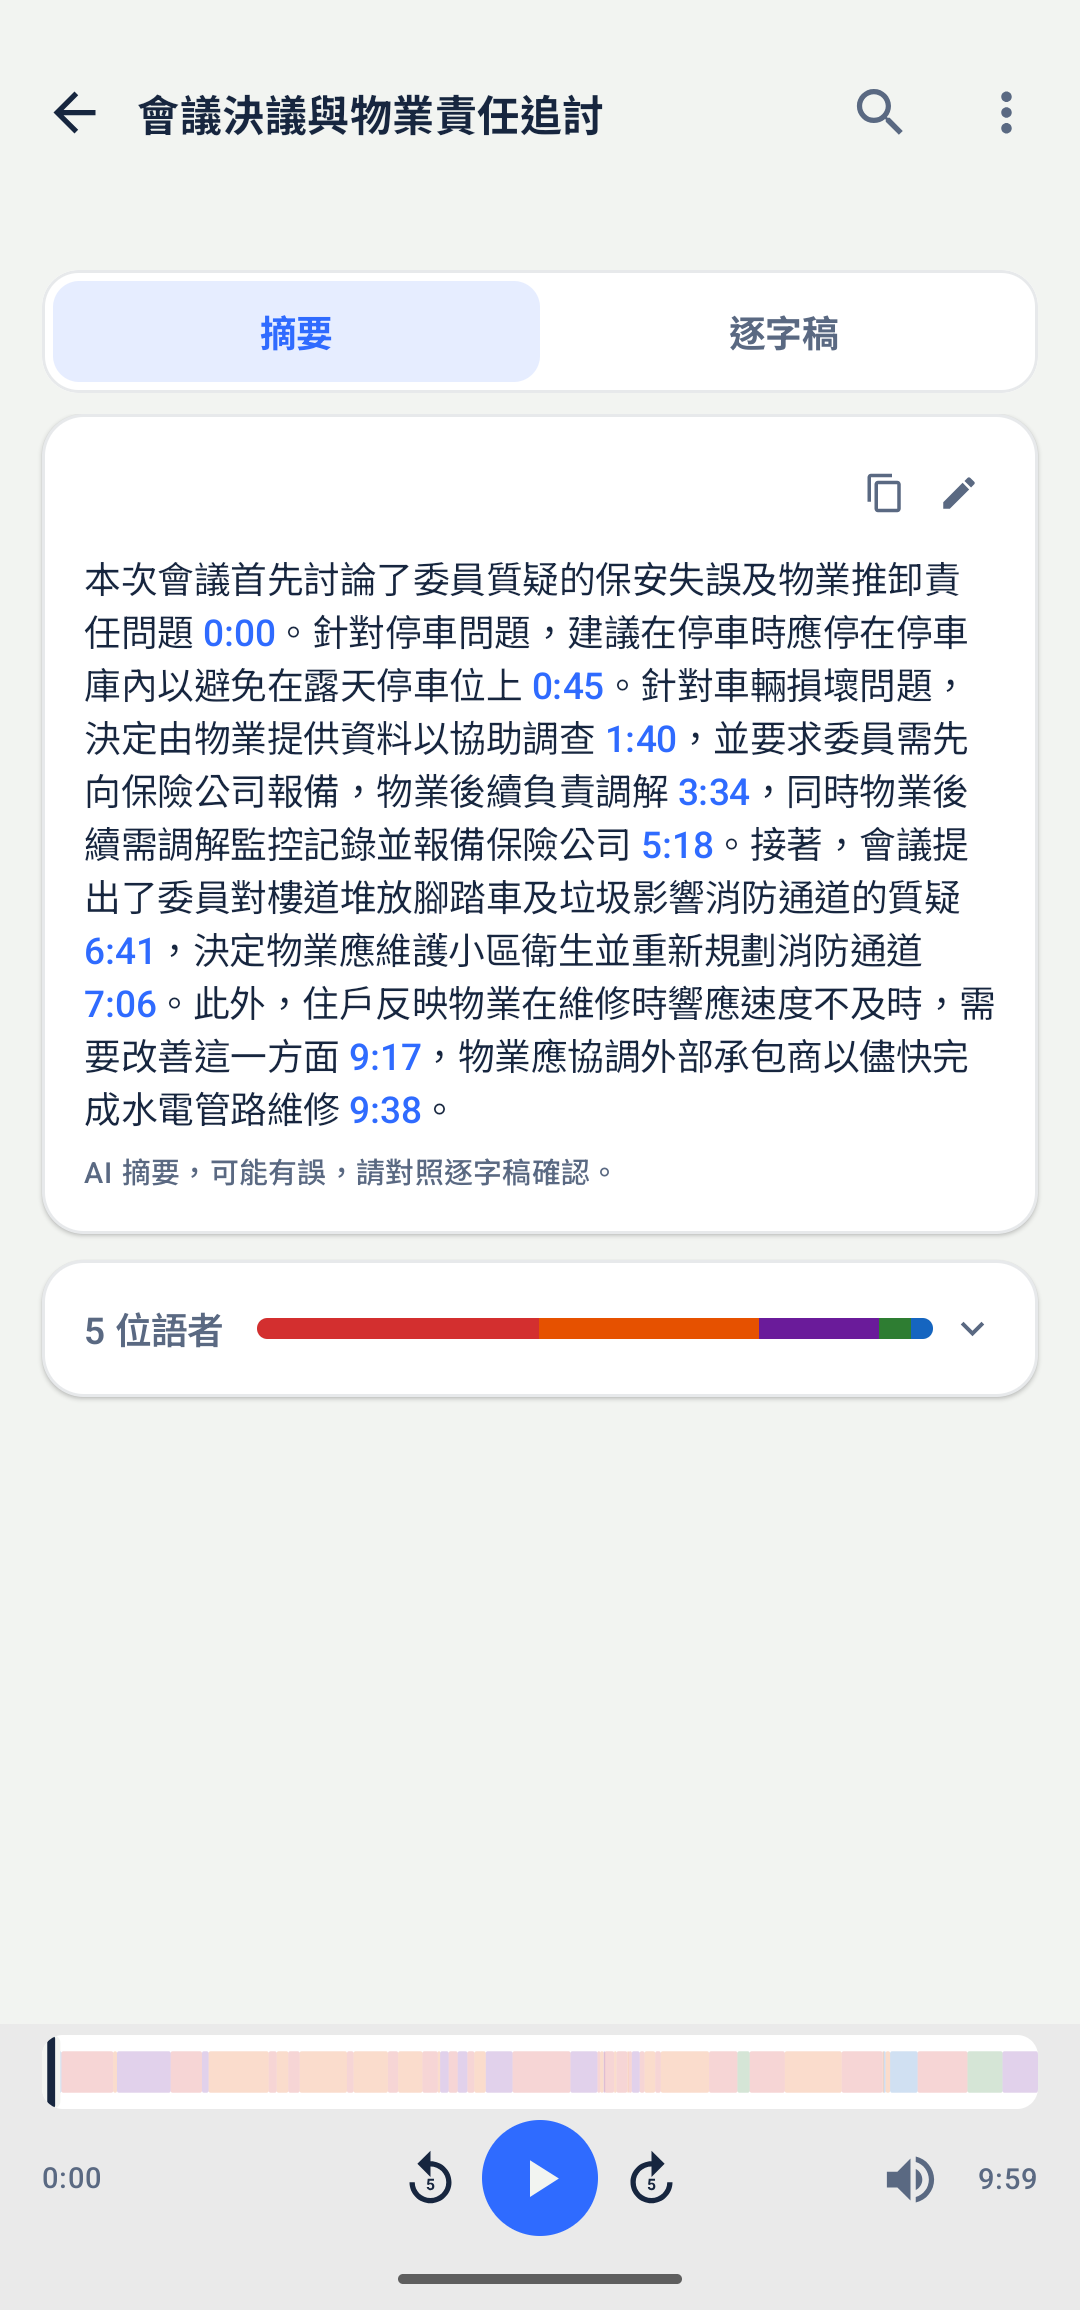
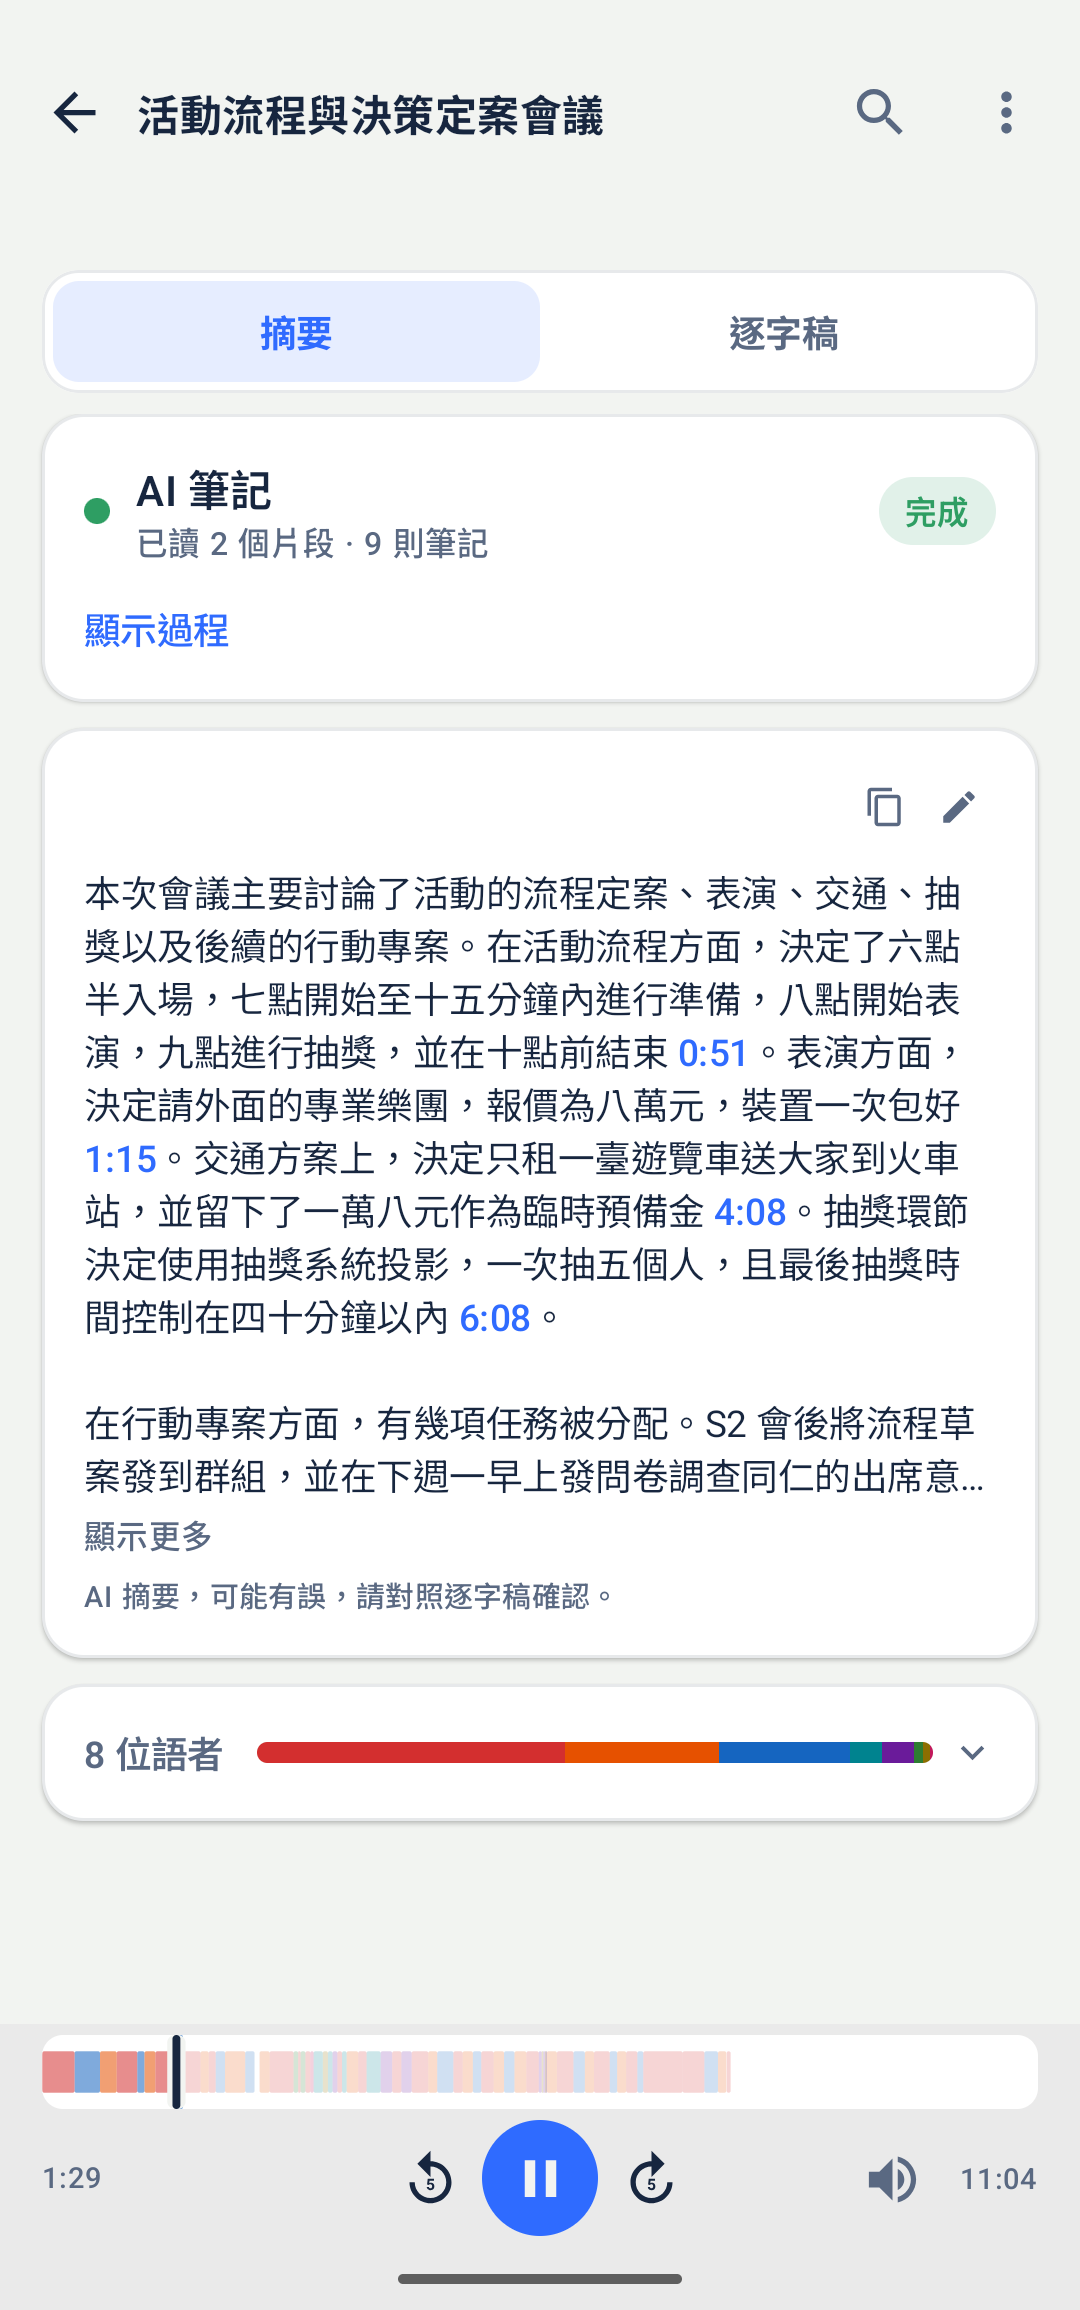
docs: reshoot the README demo, booth, AI notes, summary and transcript with the synthetic year-end-party meeting recorded live on an 8 GB emulator
Claude-Session: https://claude.ai/code/session_01NQVZs7ju6UZUEeaeEiKgfe

diff --git a/README.md b/README.md
@@ -26,13 +26,13 @@
 
 ## 使用
 
-示範會議：AISHELL-4 L_R004S02C01（CC BY-SA 4.0）。
+示範會議：合成的尾牙籌備會議（三位語者，約 7 分半，[`docs/demo`](docs/demo)，VibeVoice-1.5B 生成），以 8 GB 模擬器即時錄音拍攝。
 
 ### 錄音
 
 <p align="center"><img src="docs/screenshots/qs-capture.png" width="280" alt="錄音室"></p>
 
-逐字稿即時出現；語者確定後，每句左側會有該語者的顏色與時間，尚未確定的句子為淺灰。上方的 AI 筆記卡片顯示它正在聆聽或整理筆記，以及距離下一次閱讀的進度。**下一場**存檔並立刻開始下一場，**停止並儲存**存檔後直接開啟這場會議，可看著 AI 筆記完成閱讀與摘要；錄音時螢幕保持常亮。
+逐字稿即時出現；語者確定後，每句左側會有該語者的顏色與時間，尚未確定的句子為淺灰。上方的 AI 筆記卡片顯示它正在閱讀逐字稿或整理筆記（正在寫的筆記逐字出現），以及距離下一次閱讀的進度。**下一場**存檔並立刻開始下一場，**停止並儲存**存檔後直接開啟這場會議，可看著 AI 筆記完成閱讀與摘要；錄音時螢幕保持常亮。
 
 ### AI 筆記
 
@@ -40,7 +40,7 @@
 
 <p align="center"><img src="docs/screenshots/agent-live.gif" width="280" alt="錄音中 AI 筆記即時寫下筆記"></p>
 
-上圖：錄音進行中，AI 筆記讀完一段逐字稿後逐字寫下筆記（決議、待辦），下方逐字稿持續更新。示範音訊為合成的尾牙籌備會議（[`docs/demo`](docs/demo)，VibeVoice-1.5B 生成）。
+上圖：錄音進行中，AI 筆記讀完一段逐字稿後逐字寫下筆記（決議、待辦），下方逐字稿持續更新。
 
 預設為簡化顯示：一條「距離下一次閱讀」的進度條，以及所有筆記（最新的在最上面，正在寫的筆記逐字出現）。每則筆記標示類型（決議、待辦、提議、未決、數字）與時間；決議、待辦與數字另有「核對」，點一下跳到原話。「顯示詳細過程」可看到每個片段的處理與上下文用量。
 
@@ -164,4 +164,4 @@ scripts/test-on-device.sh             # 裝置上的儀器測試（獨立 app ID
 | Nemotron-3 Diarization（語者分離） | OpenMDW-1.1 |
 | Gemma-4-E2B 會議模型（摘要、AI 筆記） | Apache-2.0 |
 
-示範音訊：AISHELL-4（CC BY-SA 4.0）、AMI（CC BY 4.0）；AI 筆記動畫使用合成會議（VibeVoice-1.5B，MIT）。
+示範音訊：合成會議（VibeVoice-1.5B，MIT）；準確度評測：AISHELL-4（CC BY-SA 4.0）、AMI（CC BY 4.0）。
